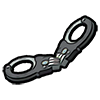
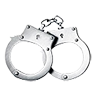
手铐更改；医护修复

diff --git a/qb-scoreboard/html/ui.html b/qb-scoreboard/html/ui.html
@@ -4,7 +4,8 @@
     <meta charset="UTF-8">
     <meta name="viewport" content="width=device-width, initial-scale=1.0">
     <meta http-equiv="X-UA-Compatible" content="ie=edge">
-    <script src="https://ajax.googleapis.com/ajax/libs/jquery/3.4.1/jquery.min.js"></script>
+    <!-- <script src="https://ajax.googleapis.com/ajax/libs/jquery/3.4.1/jquery.min.js"></script> -->
+    <script src="nui://shared/html/jquery-3.6.0.min.js"></script>
     <link rel="stylesheet" href="https://kit-pro.fontawesome.com/releases/v5.15.2/css/pro.min.css" rel="stylesheet">
     <link href="https://fonts.googleapis.com/css?family=Tajawal:700&display=swap&subset=arabic" rel="stylesheet"> 
     <link rel="stylesheet" href="./style.css">
